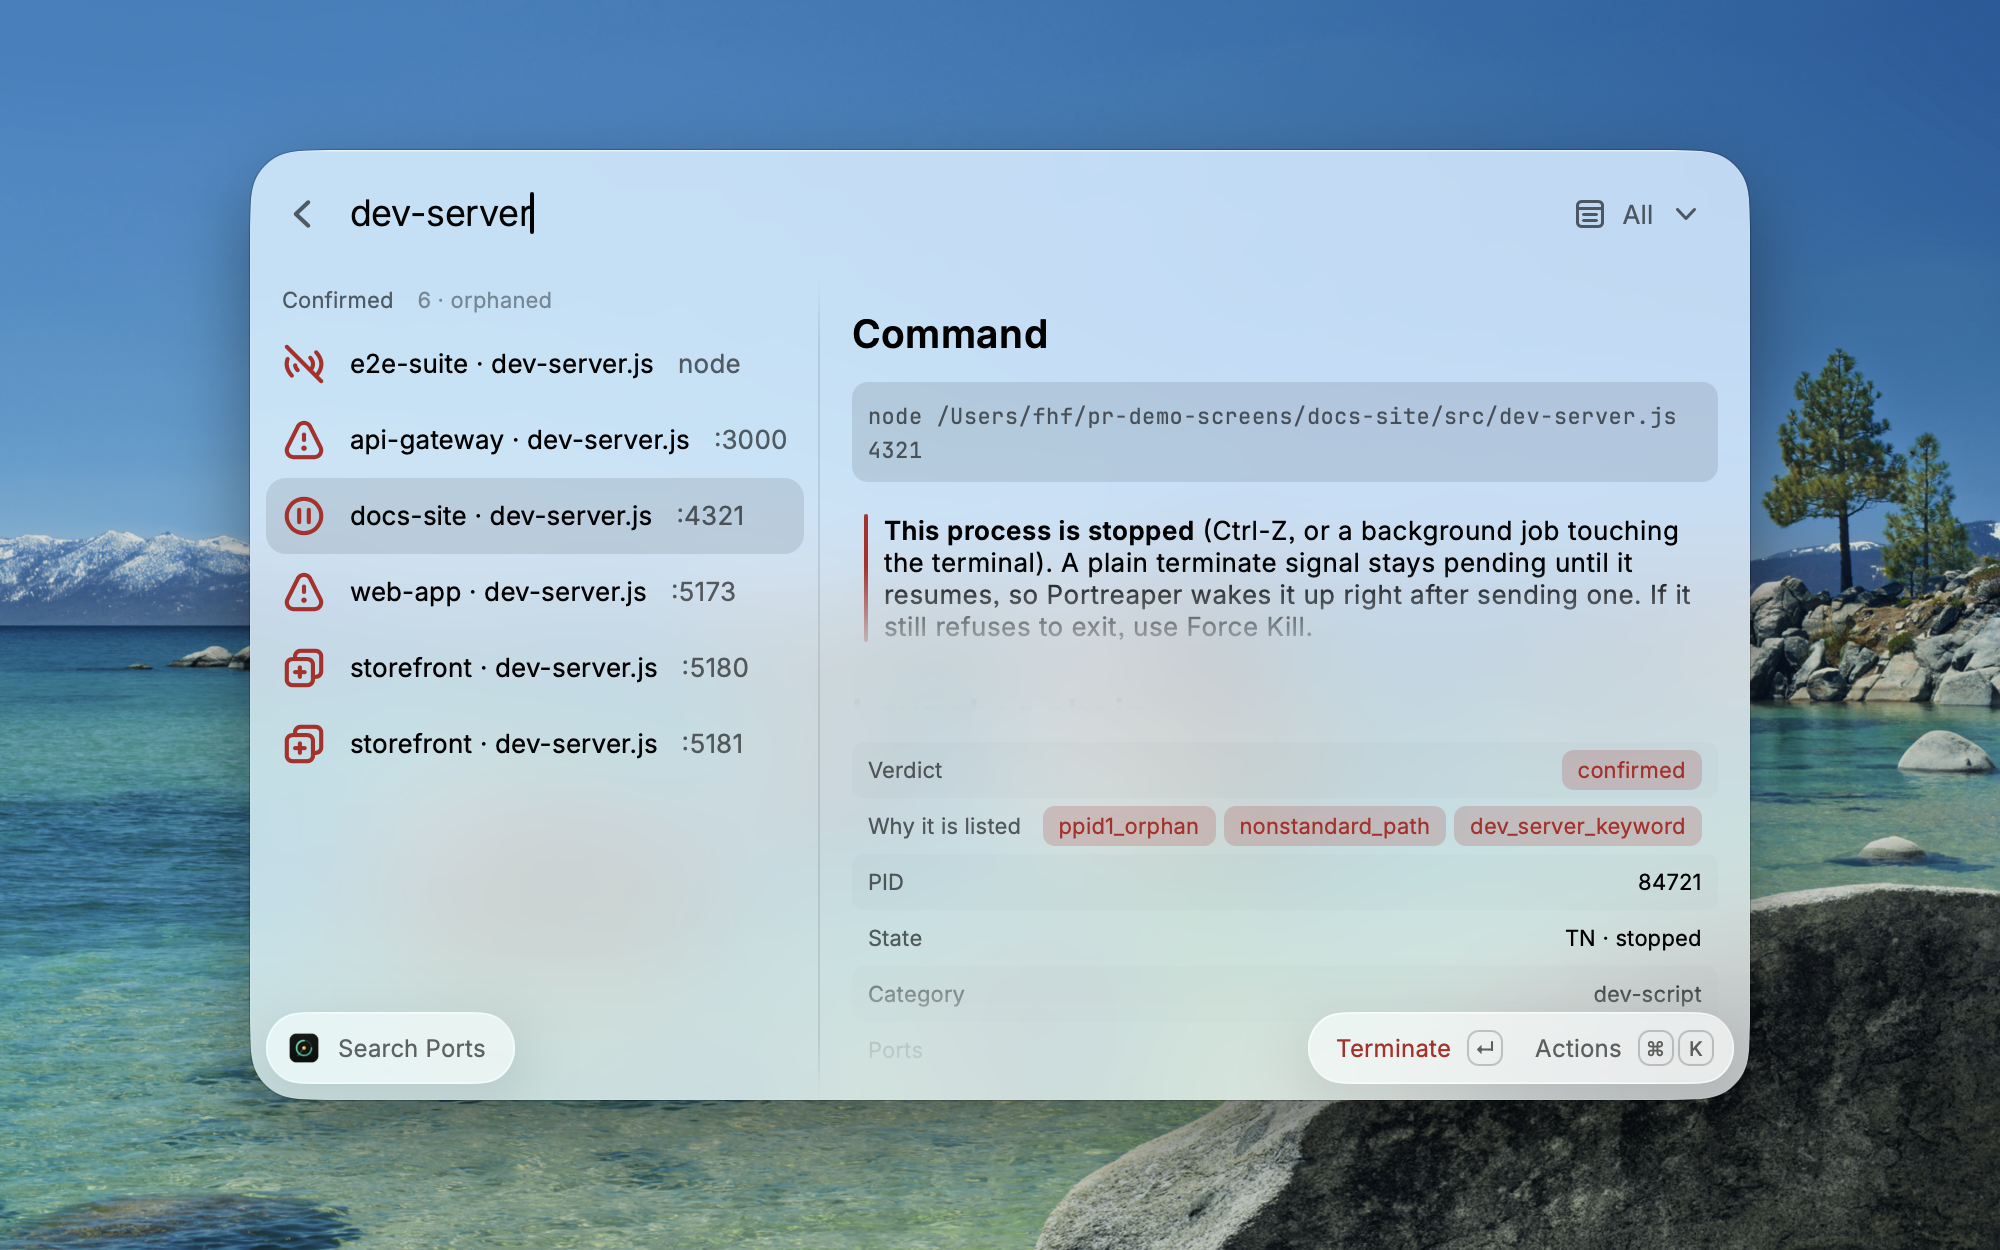
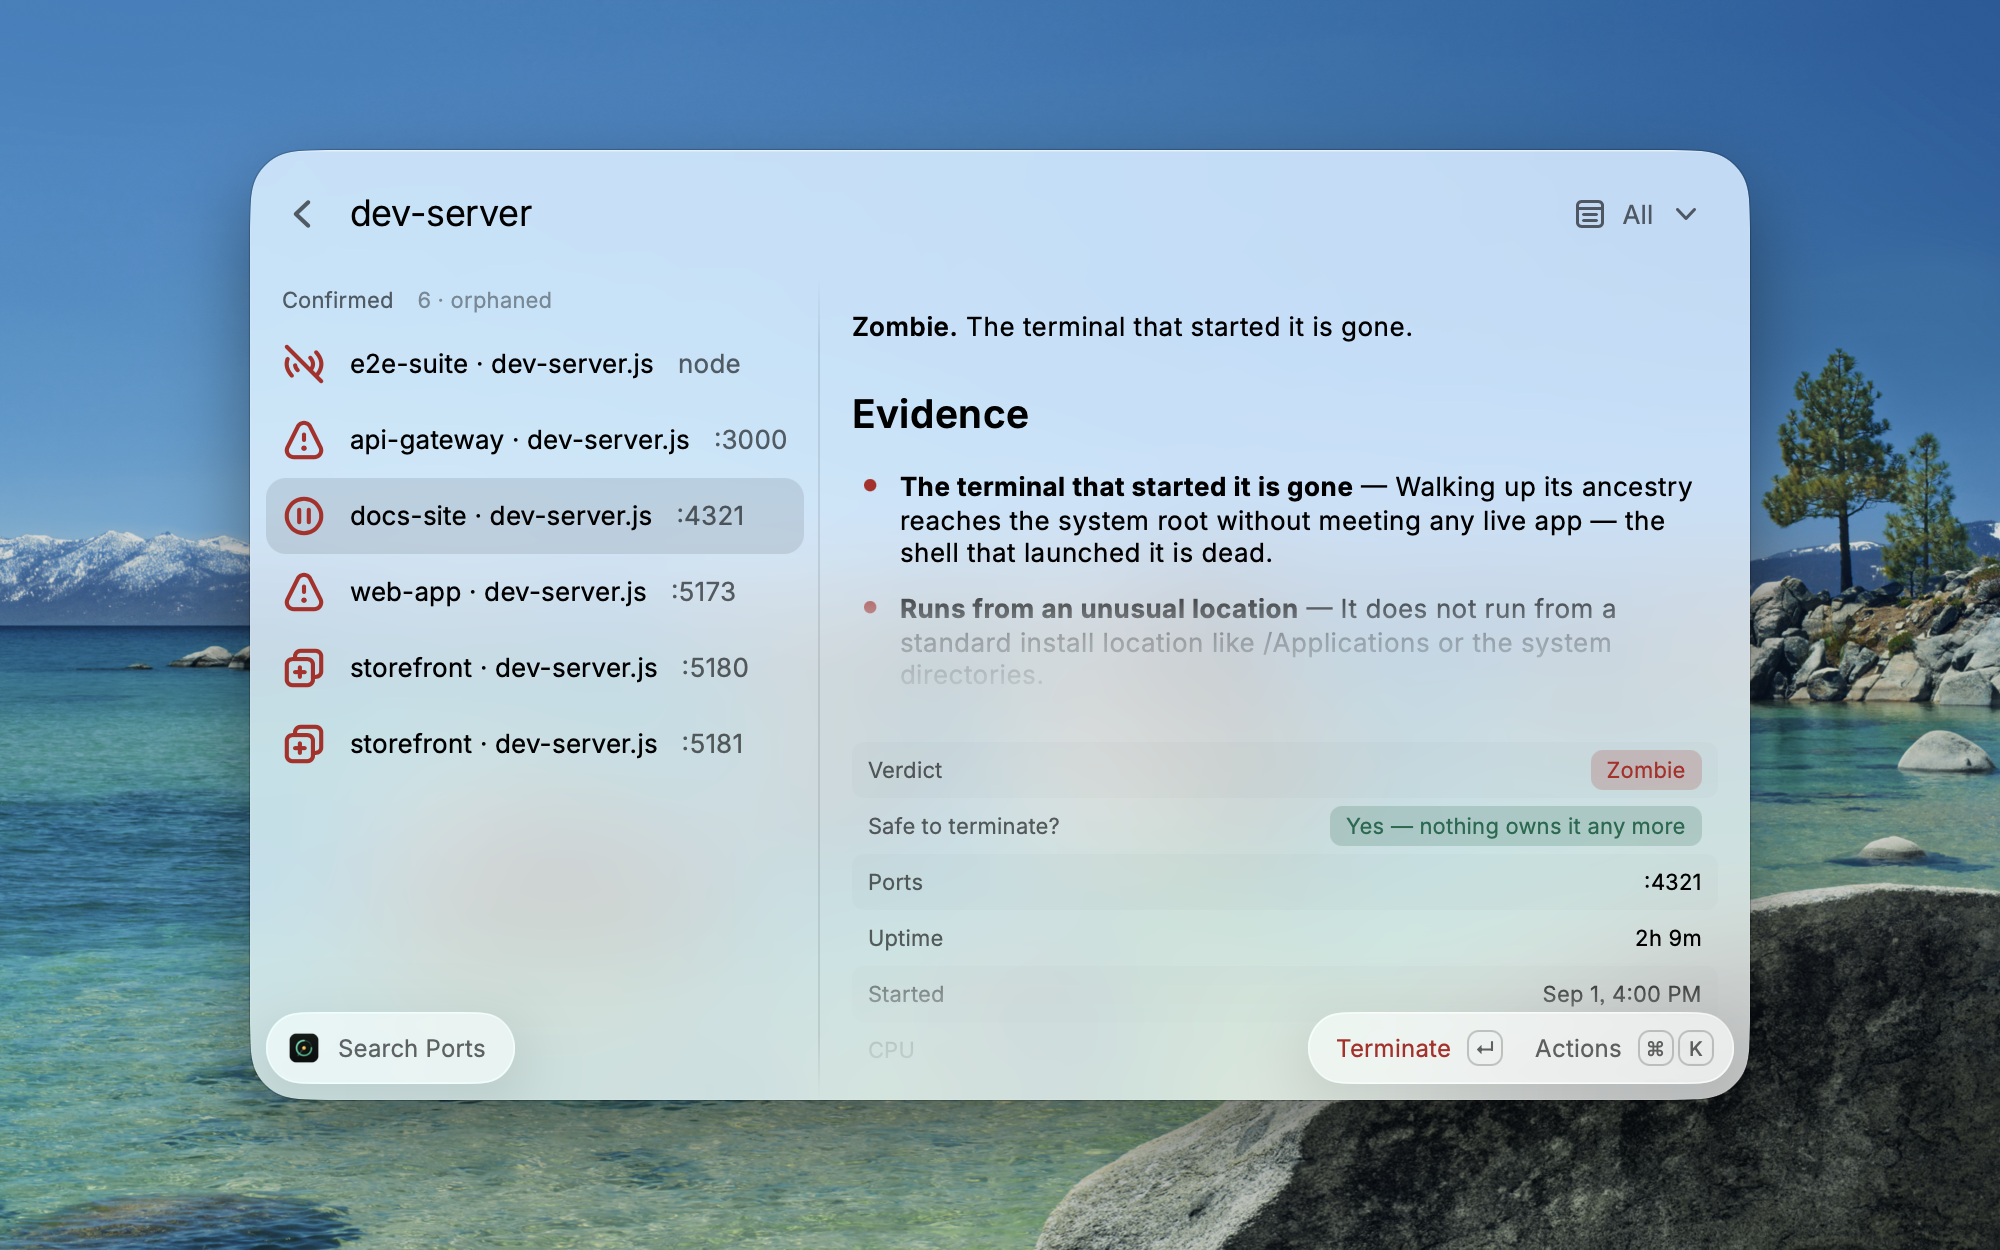
docs(raycast): 重出 portreaper-2 截图（详情面板可读化改版后）
用 Raycast 自带 Window Capture 重截（Store 评审只认官方工具）：选中挂起的 docs-site 行，新面板的首行结论、Evidence 逐条解释、绿色 Safe to terminate?、Started 时间全部入镜。2000×1250 sRGB、浅色主题、画面内仅演示进程。ray lint 三项硬指标全绿。

Claude-Session: https://claude.ai/code/session_01RhLkSiVmRRpnxf973r1uuc

diff --git a/docs/RAYCAST-MAINTAINING.md b/docs/RAYCAST-MAINTAINING.md
@@ -437,15 +437,9 @@ Confirmed 的孤儿不会被降档。判定分层由分区标题与 Dropdown 呈
       | 文件 | 内容（2026-08-10 重出） |
       |---|---|
       | `portreaper-1.png` | 满宽列表（⌘⇧D 收起详情）：五种徽标同框 —— `no port` / `stopped` / `dup of <pid>` / `confirmed` / `pid` |
-      | `portreaper-2.png` | 列表 + 详情面板，选中的是**被挂起**那行：命令、stopped 的完整说明、Verdict、判定理由 TagList（原始码）、`State: TN · stopped` |
+      | `portreaper-2.png` | 列表 + 详情面板，选中的是**被挂起**那行（2026-09-01 随详情面板可读化改版重出）：首行结论 `Zombie. The terminal that started it is gone.`、Evidence 逐条「短语+为什么」、Verdict 徽标、绿色 `Safe to terminate? Yes`、Ports/Uptime/Started |
       | `portreaper-3.png` | ⌘K 动作面板：Danger Zone（Terminate ↵ / Force Kill ⇧⌘⌫，红色破坏性样式）+ Inspect（Toggle Details / Open localhost:4321） |
       | `portreaper-4.png` | 终止确认弹窗：`PID 76738 · port :4321 · It is suspended; terminating resumes it so it can shut down.` |
-
-      > ⚠ **详情面板改版后上表已过时**（判定理由改 `REASON_LABEL` 可读文案 +
-      > markdown 区 Evidence 逐条解释、新增 Safe to terminate? 徽标与
-      > Started by / Started / Duplicate of 行、Verdict/State/Type 换新文字、
-      > 字段重排、首行结论 + `→ this process` 启动链）——`portreaper-2.png`
-      > 必受影响，提交 Store 前需按上述流程重截并更新此表。
 
       **画面里只出现临时造的 demo 进程**（`web-app` / `api-gateway` / `docs-site` /
       `e2e-suite` / `storefront` ×2，造法见上一节）—— 搜索框预置 `dev-server`
